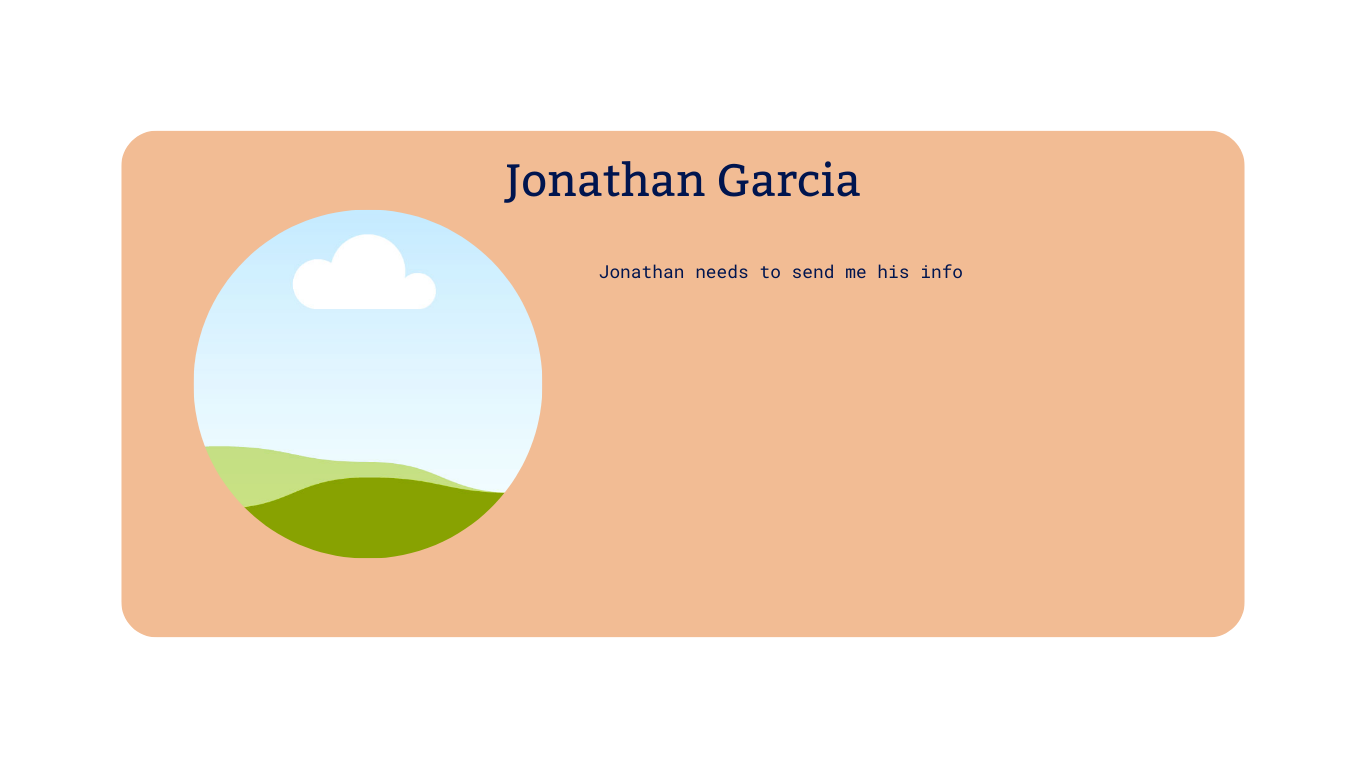
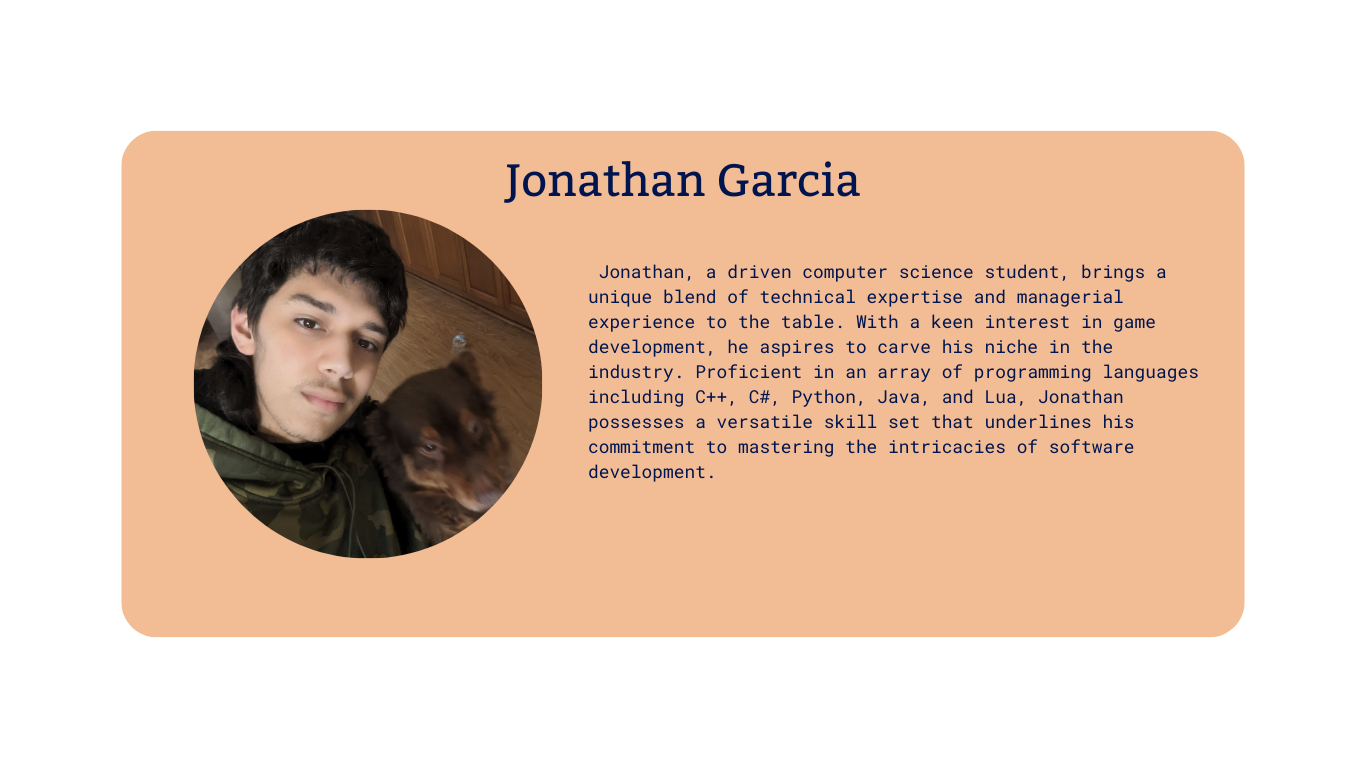
jonathan update pt2

Changed region(s): [[0.123, 0.25, 0.3997, 0.75], [0.4305, 0.3438, 0.8917, 0.625]]

diff --git a/aboutus.html b/aboutus.html
@@ -96,7 +96,7 @@
             <ul>
                 <li class="linklist"><a href="https://github.com/AnimeGamerDude"><img src="./assets/imgs/github-logo.png" width="3%"/></a></li>
                 <li class="linklist"><a href="https://www.linkedin.com/in/jonathan-garcia-109a02187/"><img src="./assets/imgs/linkedin-logo.png" width="3%"/></a></li>
-                <li class="linklist"><a href="https://www.google.com"><img src="./assets/imgs/portfolio-logo.png" width="3%"/></a></li>
+                <li class="linklist"><a href="https://theagd-28.my.canva.site/#page-2"><img src="./assets/imgs/portfolio-logo.png" width="3%"/></a></li>
                 <li class="linklist"><a href="./assets/resumes/Jonathan.Garcia.pdf"><img src="./assets/imgs/resume-logo.png" width="3%"/></a></li>
             </ul>
         </div>
